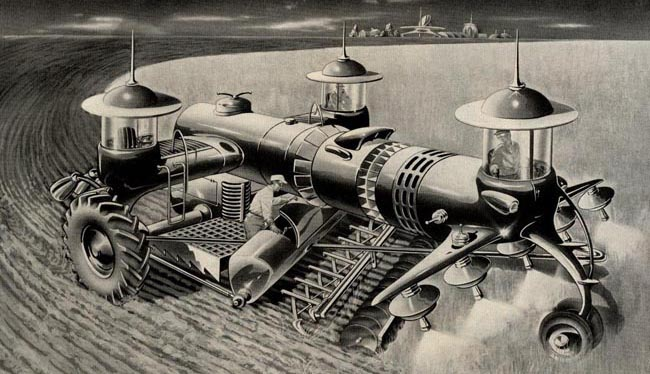
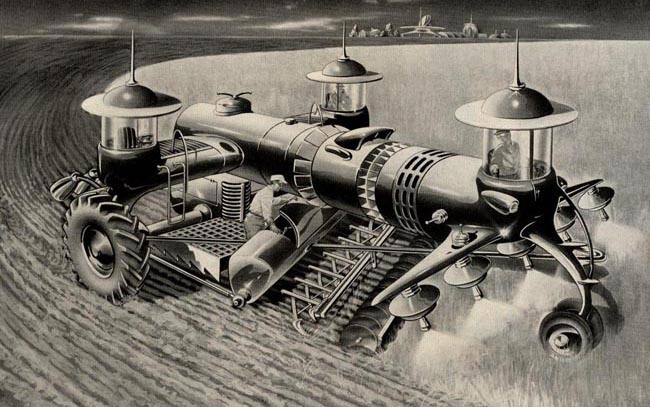
Select larger title image.

diff --git a/README.md b/README.md
@@ -9,10 +9,10 @@ Private repository for the kernreg package. I'm currently following the hypermod
 
 
 <p align="center">
-  <img width="650" height="374" src="https://github.com/segsell/hypermodern-kernreg/blob/develop/docs/images/Arthur_Radebaugh_retrofuturism.jpg?raw=true">
-</p> *
+  <img width="650" height="407" src="https://github.com/segsell/hypermodern-kernreg/blob/develop/docs/images/Arthur_Radebaugh_retrofuturism.jpg?raw=true">
+</p>
 
 
 -----
 `*` The image is taken from futurist illustrator [Arthur Radebaugh's (1906–1974)](http://www.gavinrothery.com/my-blog/2012/7/15/arthur-radebaugh.html)
-Sunday comic strip *Closer Than We Think!* for the Chicago Tribune - New York News Syndicate.
+Sunday comic strip *Closer Than We Think!*, which was published by the Chicago Tribune - New York News Syndicate from 1958 to 1963.
